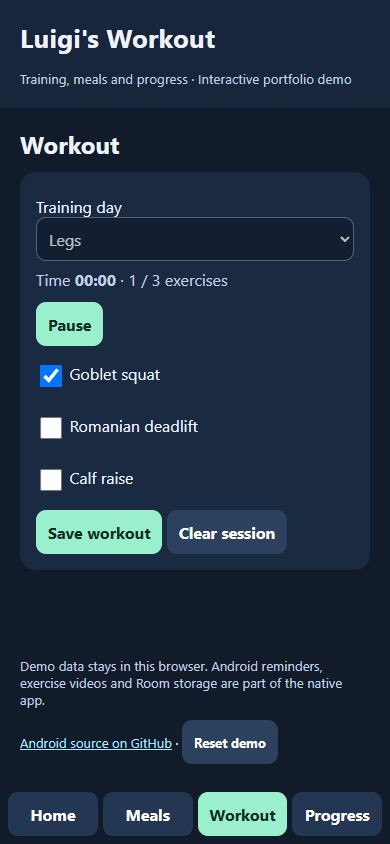
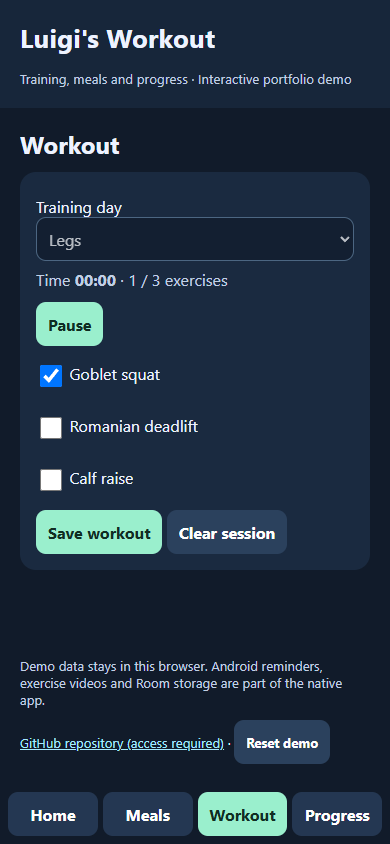
Clarify repository access from the public portfolio demo
The public demo is accessible anonymously, while the GitHub source requires access to the private repository. Label the link accordingly and refresh the walkthrough captures after testing at 320, 390, and 1440 CSS pixels.

Changed region(s): [[0.0615, 0.8318, 0.8615, 0.9242]]

diff --git a/demo/index.html b/demo/index.html
@@ -15,7 +15,7 @@ button{min-width:44px}button:focus-visible,input:focus-visible,select:focus-visi
 <div class="phone">
 <header><h1>Luigi's Workout</h1><small>Training, meals and progress · Interactive portfolio demo</small></header>
 <main id="screen"></main>
-<footer><p id="notice" role="status"></p><p>Demo data stays in this browser. Android reminders, exercise videos and Room storage are part of the native app.</p><a href="https://github.com/luigi043/LuigisWorkout">Android source on GitHub</a> · <button id="reset" class="secondary">Reset demo</button></footer>
+<footer><p id="notice" role="status"></p><p>Demo data stays in this browser. Android reminders, exercise videos and Room storage are part of the native app.</p><a href="https://github.com/luigi043/LuigisWorkout">GitHub repository (access required)</a> · <button id="reset" class="secondary">Reset demo</button></footer>
 <nav aria-label="Demo screens"><button data-tab="Home">Home</button><button data-tab="Meals">Meals</button><button data-tab="Workout">Workout</button><button data-tab="Progress">Progress</button></nav>
 </div>
 <script type="module" src="demo.js"></script>
